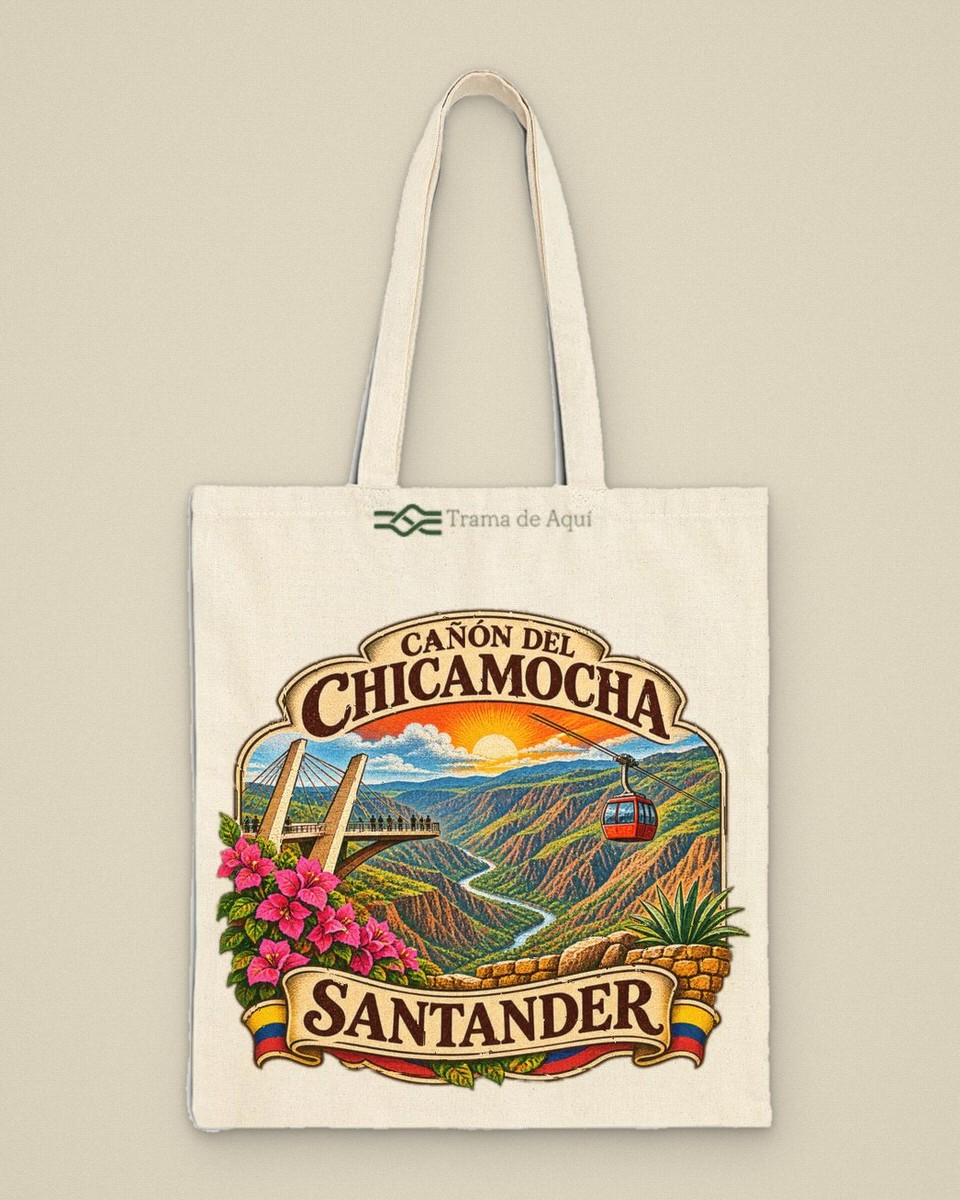
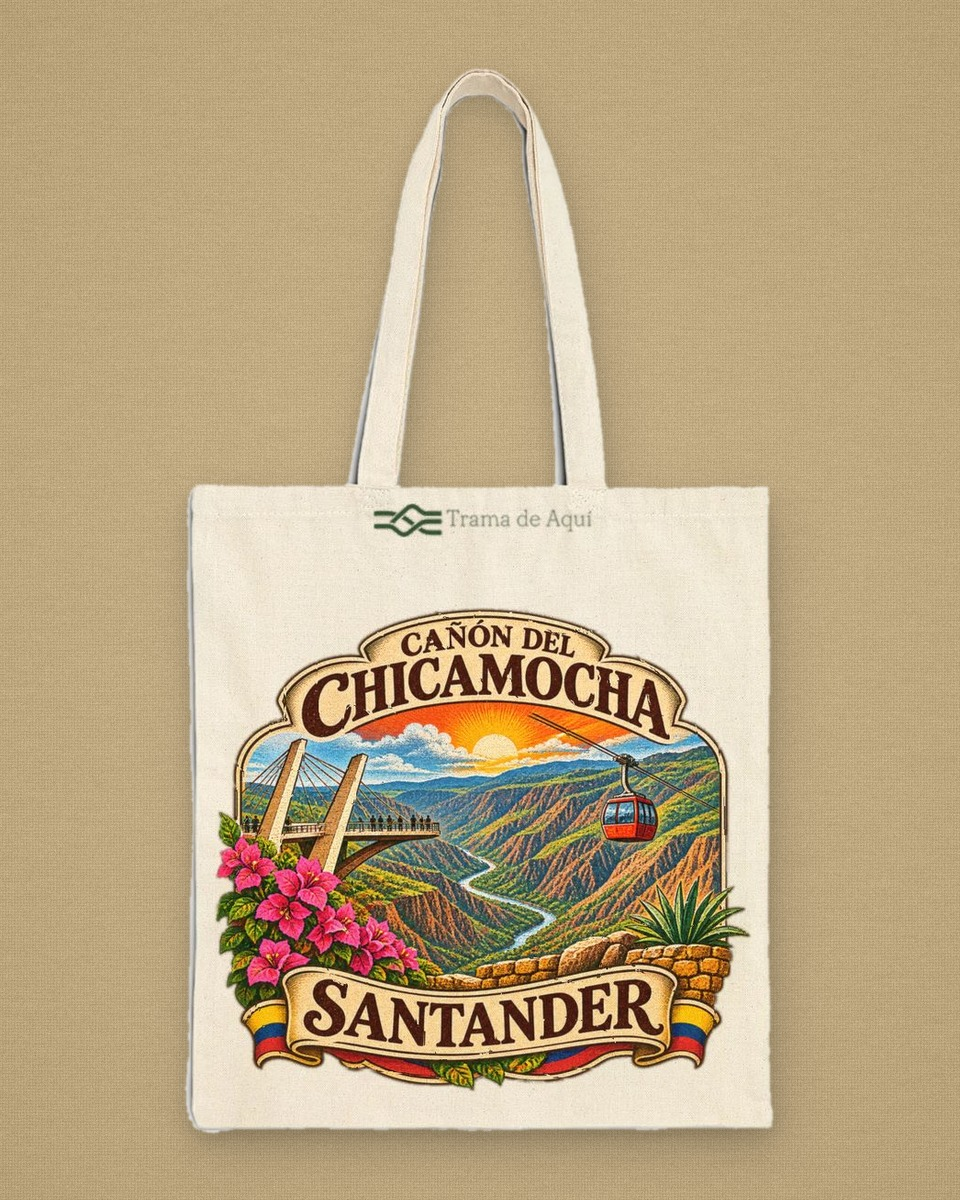
Hero: fondo de fique (tierra, fibra) y recorte del orillo más limpio
- Tapete del hero rehecho como FIQUE: tono tierra (#C4AE86), trama de fibra
  gruesa cruzada + fibras irregulares (slubs) + grano, en vez del lino liso
- Recorte del bolso pulido (borde suave y parejo, sin orillo mal cortado)
  y mejor calidad (q92); sombra de apoyo suave
- Cache-busting ?v=4 en las fotos del hero

Claude-Session: https://claude.ai/code/session_019MV2ChF65GATnSuXp8dAgF

diff --git a/index.html b/index.html
@@ -39,7 +39,7 @@
       </div>
     </div>
     <div class="hero-foto" id="hero-slider">
-      <img class="activo" src="assets/img/hero/cv-colombia-viva.jpg?v=3" alt="Bolsos de lona Trama de Aquí con diseños de Colombia">
+      <img class="activo" src="assets/img/hero/cv-colombia-viva.jpg?v=4" alt="Bolsos de lona Trama de Aquí con diseños de Colombia">
     </div>
   </div>
 </section>
@@ -80,7 +80,7 @@
   var cont = document.getElementById('hero-slider');
   if (!cont) return;
   var base = 'assets/img/hero/';
-  var fotos = ['cv-colombia-viva', 'muni-barichara', 'depto-danza-magdalena', 'riq-poporo-quimbaya', 'canon-del-chicamocha', 'ff-jaguar', 'co-sombrero-vueltiao', 'cv-flamencos-de-la-guajira', 'depto-antioquia', 'ff-condor-de-los-andes', 'cv-ballenas-de-nuqui', 'muni-bucaramanga'].map(function (s) { return base + s + '.jpg?v=3'; });
+  var fotos = ['cv-colombia-viva', 'muni-barichara', 'depto-danza-magdalena', 'riq-poporo-quimbaya', 'canon-del-chicamocha', 'ff-jaguar', 'co-sombrero-vueltiao', 'cv-flamencos-de-la-guajira', 'depto-antioquia', 'ff-condor-de-los-andes', 'cv-ballenas-de-nuqui', 'muni-bucaramanga'].map(function (s) { return base + s + '.jpg?v=4'; });
   fotos.forEach(function (s) { var im = new Image(); im.src = s; });
   if (window.matchMedia && window.matchMedia('(prefers-reduced-motion: reduce)').matches) return;
   var a = cont.querySelector('img');
